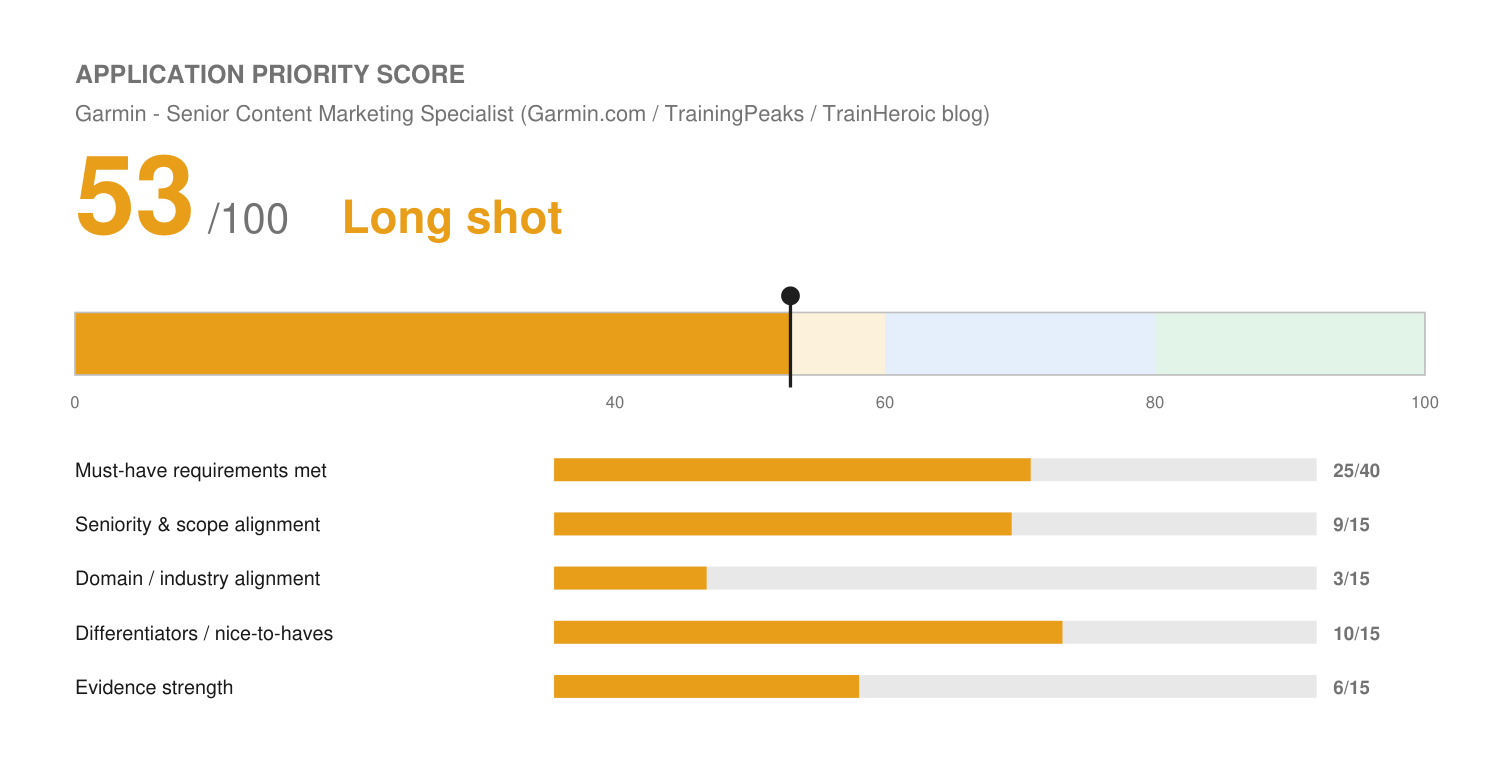
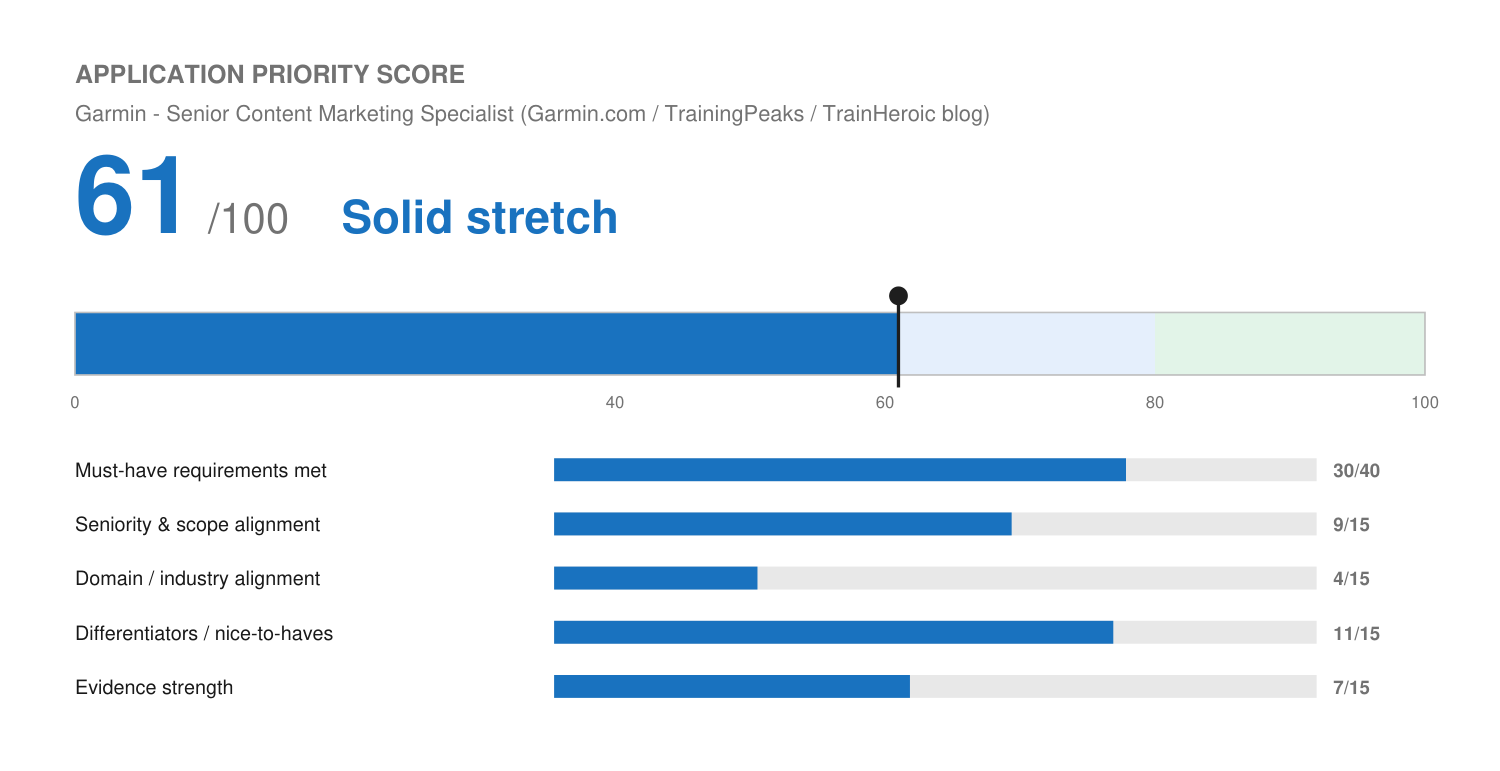
Garmin: rescored 61 after WordPress, AP style, published samples confirmed; profile adds writing/sports facts
Claude-Session: https://claude.ai/code/session_01Tym7Ffe6DkggR3nyAN5h24

diff --git a/profile/master-profile.md b/profile/master-profile.md
@@ -129,6 +129,17 @@ band.
 > experience, but a real, defensible answer to "can this candidate speak the language of our
 > audience."
 
+## Writing, publishing tools, and sports (confirmed Sep 2026)
+
+- **Published writing samples exist** (thought leadership, newsletters, guides). Links not
+  yet captured in this repo; ask Josh for URLs when a posting requires a portfolio.
+- **WordPress:** hands-on, confirmed.
+- **AP style:** familiar, confirmed.
+- **Sports:** played basketball growing up and is a genuine sports fan. Runs as a workout,
+  not as a sport; not an endurance athlete or coach. For endurance-sports employers
+  (Garmin, TrainingPeaks), represent this as general sports passion, never as endurance
+  experience.
+
 ## Outdoor recreation (confirmed Aug 2026)
 
 - **Camps and hikes.** Colorado-based, uses the state's outdoors recreationally.
@@ -597,7 +608,7 @@ operator talking, not like a candidate performing.
 | Customer Success | Onboarding Strategy, Churn Prevention, Time-to-Value Reduction, NPS, Retention, Upsell Identification, Success Plans |
 | Sales & Account Management | Full-cycle Sales, Pipeline Management, Pipeline Stage Tracking & Forecast Hygiene, C-Suite Relationship Building, Strategic Advisory, Account Expansion |
 | Operations & Systems | Process Mapping, SOP Development, Workflow Decomposition, Project Management, Cross-functional Coordination, Agile/Scrum, Jira (user) |
-| Content & Writing | Thought Leadership, Direct Response Copy, Technical Translation, Brand Voice, Editorial Management |
+| Content & Writing | Thought Leadership, Direct Response Copy, Technical Translation, Brand Voice, Editorial Management, AP Style, WordPress |
 | Office & Finance Basics | Microsoft Word, Outlook, Excel (experienced); Basic bookkeeping, reconciliation, AP/AR *(confirmed by Josh, Sep 2026; which role(s) not yet captured, ask before writing a role-specific bullet)* |
 | Tools & Platforms | GoHighLevel, HubSpot, Salesforce, Notion, Slack, Asana, Monday.com, Jira, Zendesk, ClickUp, Screaming Frog, Google Apps, Procore |
 

diff --git a/applications/garmin-senior-content-marketing-specialist/match-report.md b/applications/garmin-senior-content-marketing-specialist/match-report.md
@@ -7,6 +7,10 @@
 - **Deadline:** October 9, 2026
 - **Date evaluated:** 2026-09-29
 
+## Rescore (Sep 29): 53 → 61 after confirmations
+
+Josh confirmed: published writing samples exist (links still needed for the application), WordPress hands-on, AP style familiar. Sports: played basketball, genuine sports fan, runs as a workout; not an endurance athlete. All added to `profile/master-profile.md`. Must-haves 25 → 30, domain 3 → 4, differentiators 10 → 11, evidence 6 → 7. Now **Solid stretch (bottom of band)**; the portfolio links decide it.
+
 ## Application-Form and Eligibility Check
 
 | Item | Classification | Status |
